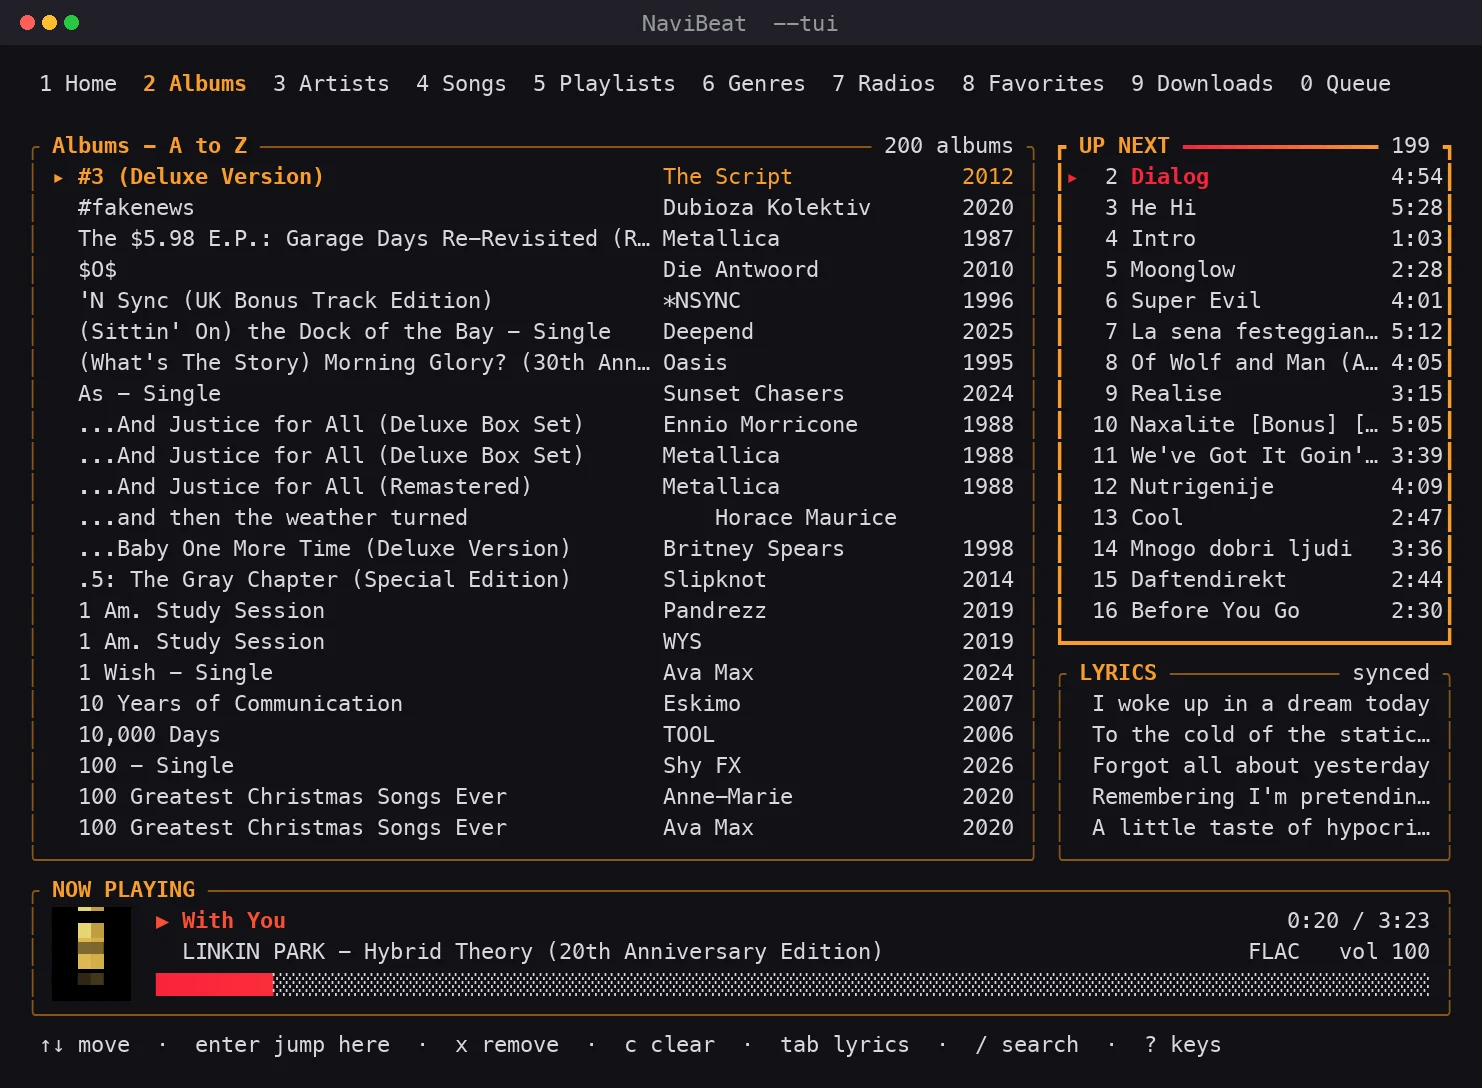
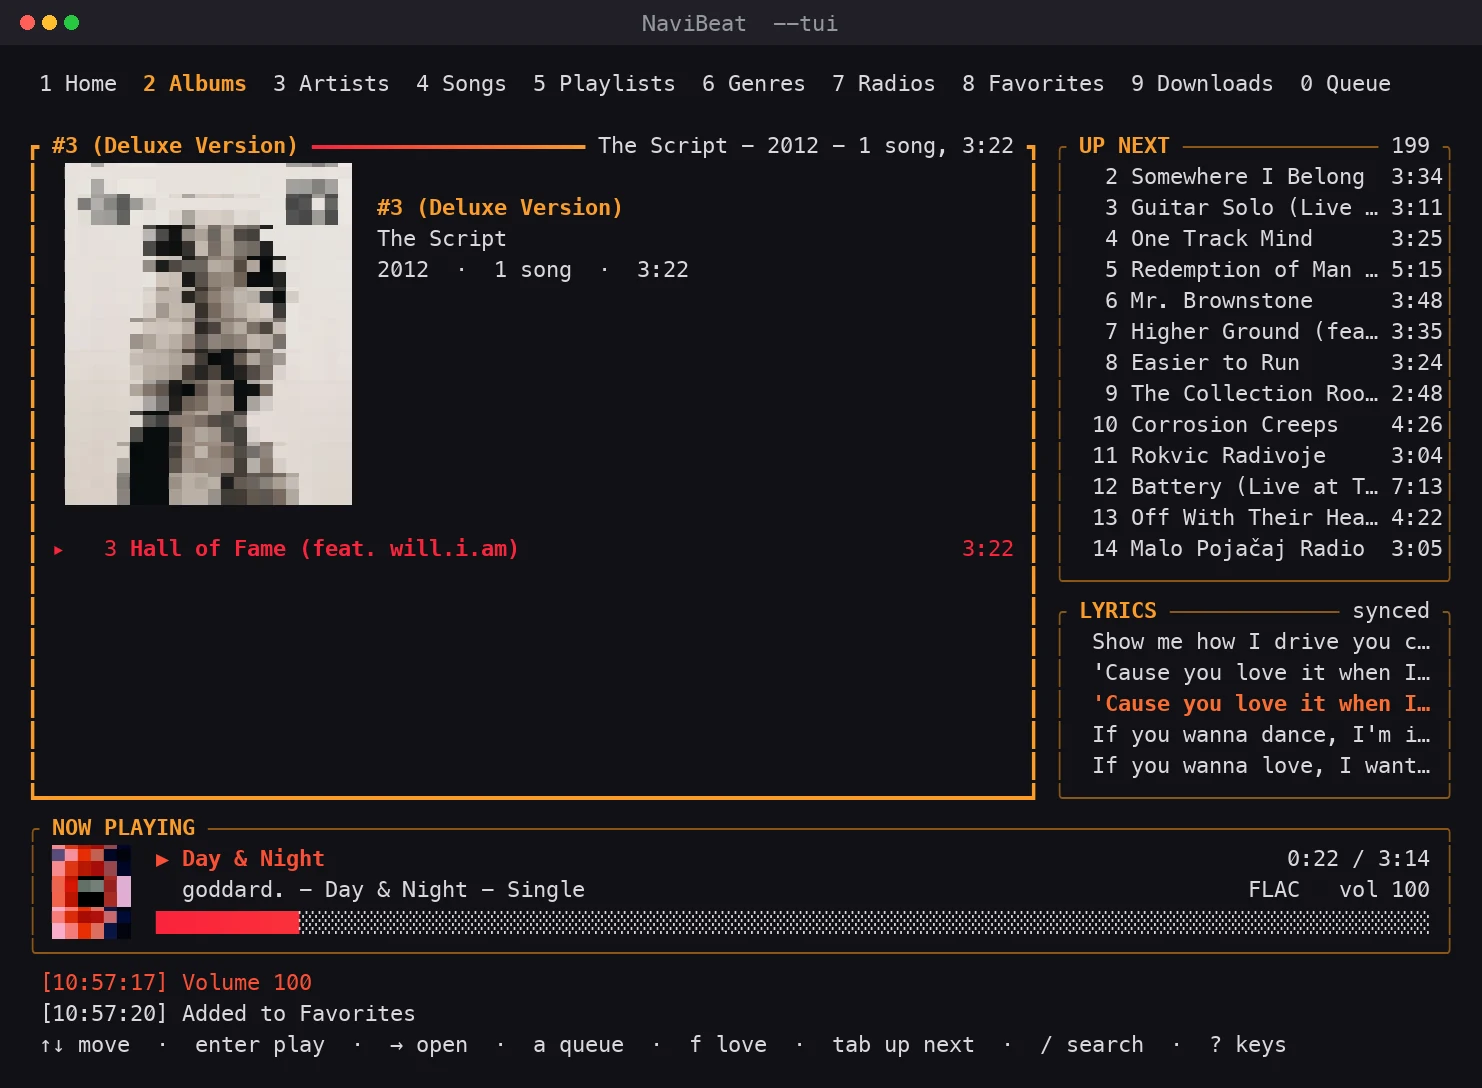
site: Linux 0.9.57
Synced-From: NaviBeat/marketing/site

Changed region(s): [[0.0, 0.125, 0.9933, 0.9688]]

diff --git a/linux.html b/linux.html
@@ -92,7 +92,7 @@
         "applicationCategory": "MultimediaApplication",
         "applicationSubCategory": "Music Streaming Client",
         "operatingSystem": "Linux x86_64, Linux ARM64 (aarch64)",
-        "softwareVersion": "0.9.56",
+        "softwareVersion": "0.9.57",
         "releaseNotes": "https://github.com/nenadjokic/navibeat-linux/releases/latest",
         "datePublished": "2026-07-23",
         "downloadUrl": "https://github.com/nenadjokic/navibeat-linux/releases/latest",
@@ -280,7 +280,7 @@
             <dt style="color: var(--text-2); font-weight: 500; text-transform: uppercase; letter-spacing: 0.08em; font-size: 11px; align-self: center;">Distribution</dt>
             <dd style="margin: 0; color: var(--text-1);">AppImage on <a href="https://github.com/nenadjokic/navibeat-linux/releases/latest" target="_blank" rel="noopener" style="color:var(--accent-hi);">GitHub Releases</a></dd>
             <dt style="color: var(--text-2); font-weight: 500; text-transform: uppercase; letter-spacing: 0.08em; font-size: 11px; align-self: center;">Version</dt>
-            <dd style="margin: 0; color: var(--text-1);">0.9.56 beta &middot; <time datetime="2026-08-05">updated August 5, 2026</time></dd>
+            <dd style="margin: 0; color: var(--text-1);">0.9.57 beta &middot; <time datetime="2026-08-05">updated August 5, 2026</time></dd>
           </dl>
         </div>
 
@@ -471,7 +471,7 @@
           <div class="p-shot__copy">
             <p class="eyebrow">01 / Terminal client</p>
             <h3>Your library, what is next, and the words. At once.</h3>
-            <p>Every section sits in its own frame, and the one your keys are going to is drawn in NaviBeat's own gradient, so you can see where you are from across the room. <strong>Tab</strong> moves between the library, Up Next and the lyrics. In the queue, enter jumps to a track; in the lyrics, enter seeks to that line. Ten screens still sit on the number keys, and it is the same engine as the windowed app underneath: the same library code, the same player, the same downloads, the same MPRIS integration, so your desktop's media keys still work.</p>
+            <p>Every section sits in its own frame, and the one your keys are going to is drawn in NaviBeat's own gradient, so you can see where you are from across the room. <strong>Tab</strong> moves between the library, Up Next and the lyrics. In the queue, enter jumps to a track; in the lyrics, enter seeks to that line. Above the transport, two lines with the time on them say what you just did, so an action taken while you were looking somewhere else leaves a trace. Ten screens still sit on the number keys, and it is the same engine as the windowed app underneath: the same library code, the same player, the same downloads, the same MPRIS integration, so your desktop's media keys still work.</p>
           </div>
         </article>
 
@@ -724,7 +724,7 @@
     </div>
     <div class="footer__bar">
       <span>&copy; 2026 Nenad Jokic &middot; Made with <span class="footer__heart">&#10084;</span> in Belgrade</span>
-      <span>Linux 0.9.56 &middot; Open beta</span>
+      <span>Linux 0.9.57 &middot; Open beta</span>
     </div>
   </div>
 </footer>
